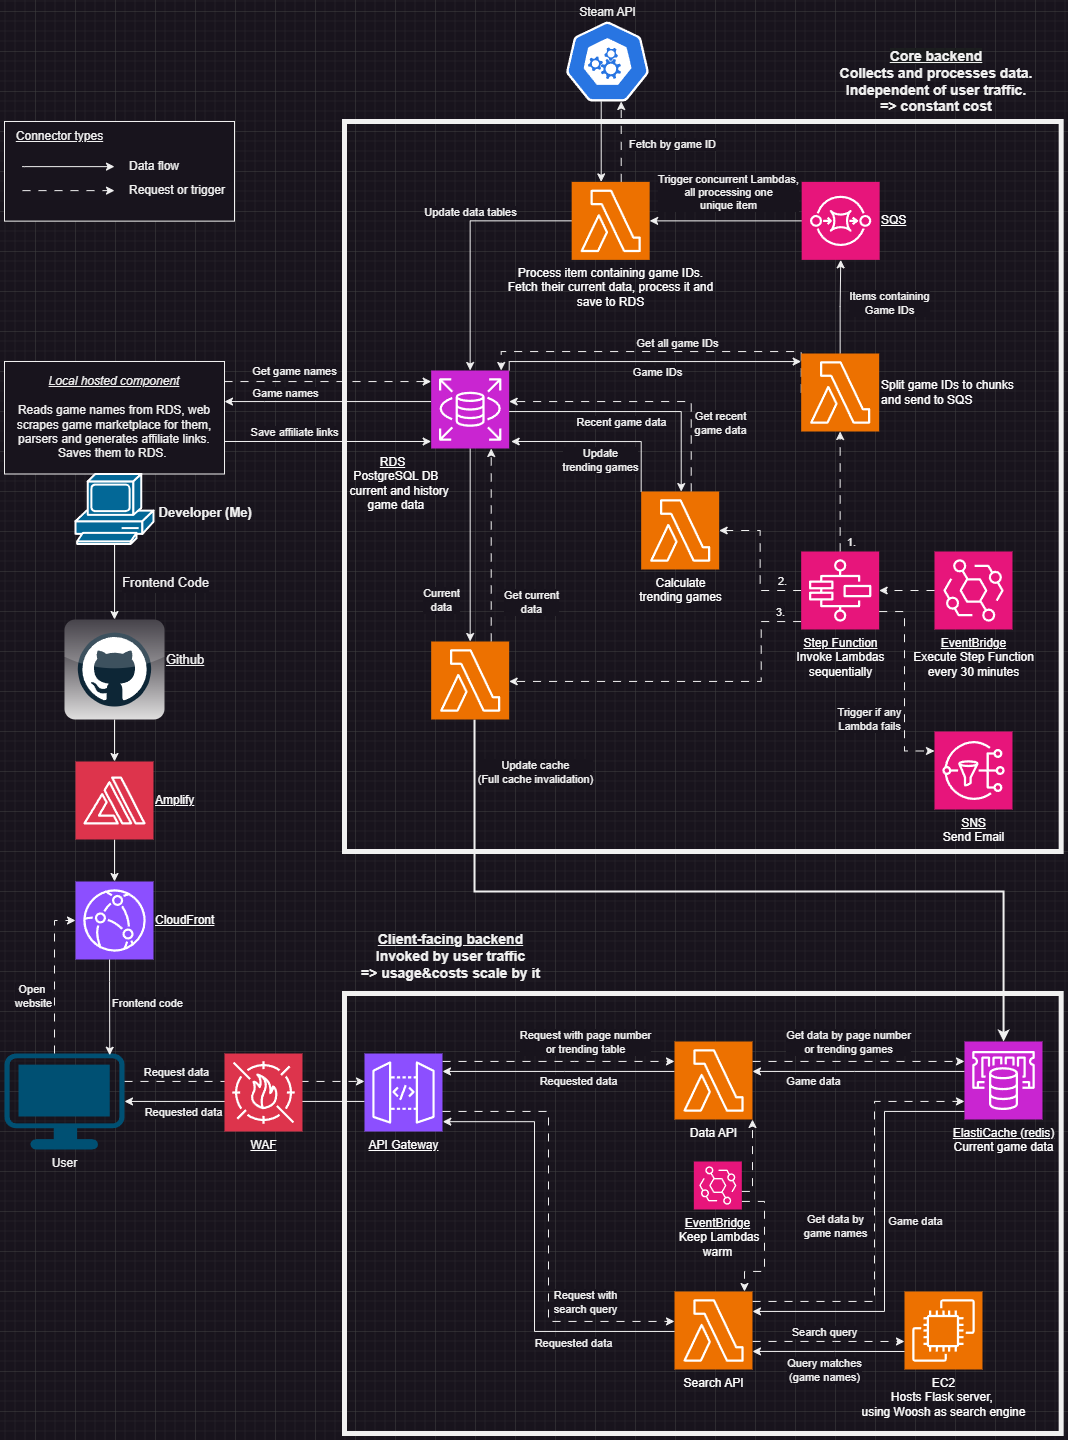
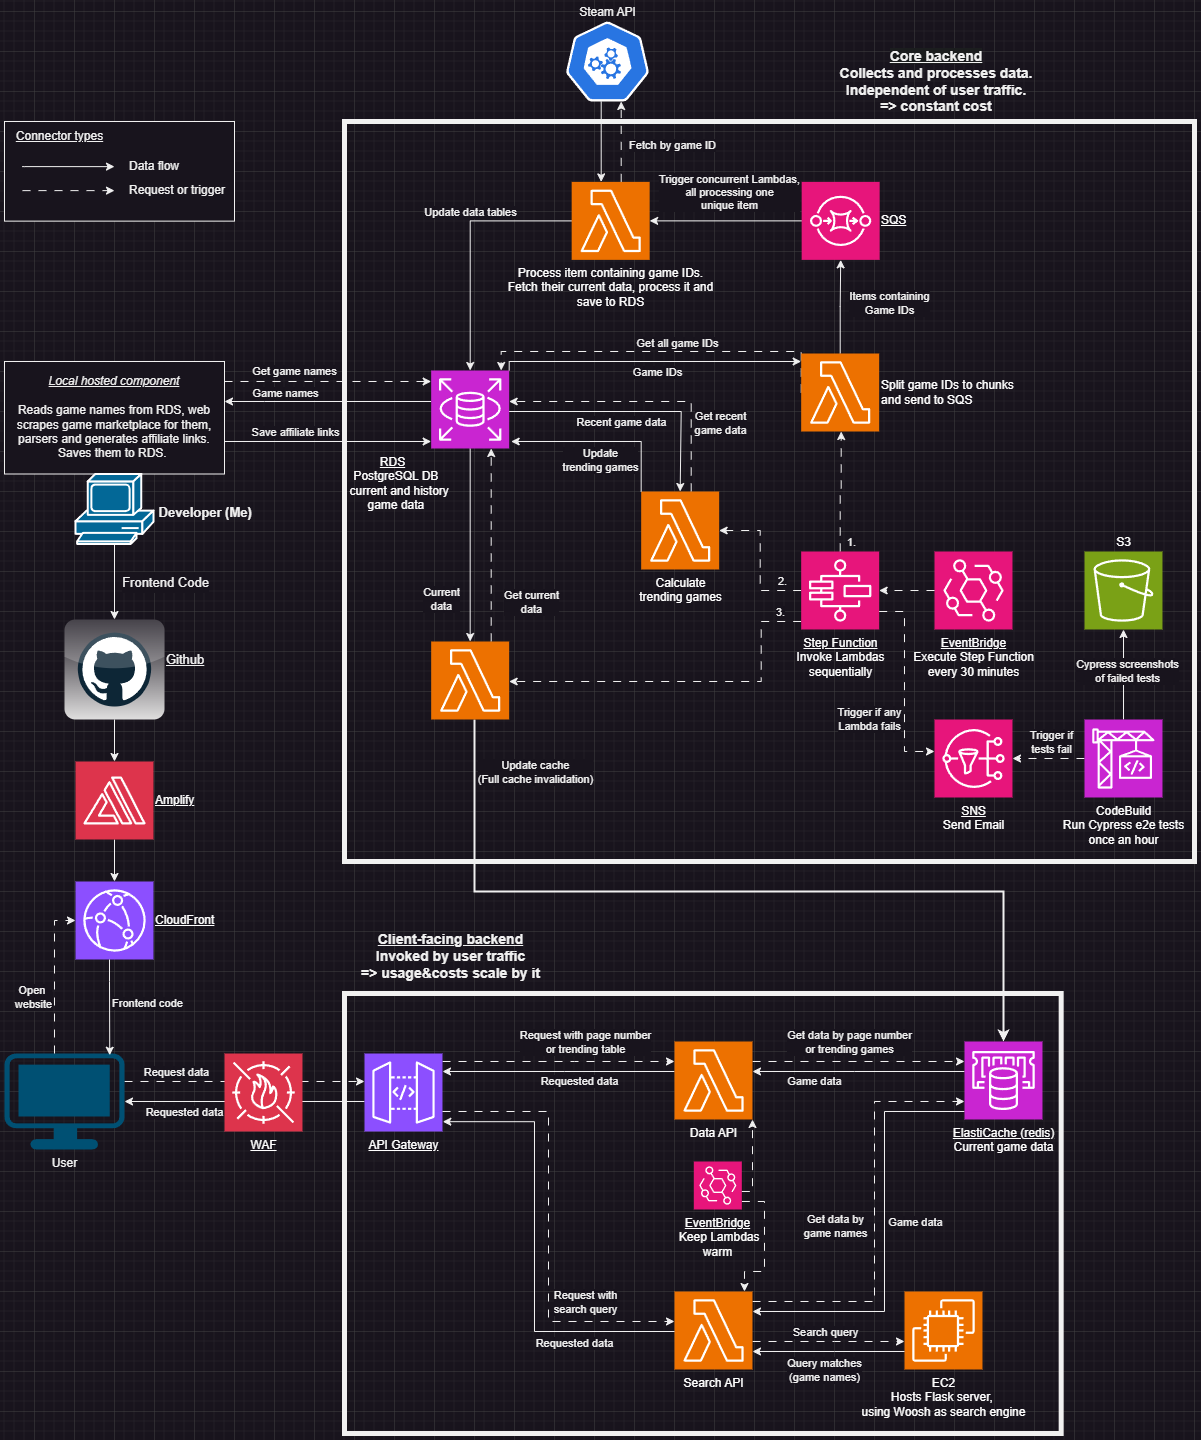
add documentation for codebuild cypress e2e tests

diff --git a/README.md b/README.md
@@ -87,3 +87,4 @@ OpenSearch is better choice.
    change data in the DB, and force start an update cycle anytime.
 3. ~~Replace OpenSearch with something cheaper.~~
    - EC2 running Flask Server and Woosh as search engine replaced OpenSearch
+4. Custom Docker image for CodeBuild tests

diff --git a/tests/README.md b/tests/README.md
@@ -1,0 +1,2 @@
+Simple Cypress E2E tests run in CodeBuild, Cypress Docker image. \
+Ran once an hour. If tests fail, trigger SNS email notification and save Cypress screenshots to S3.
